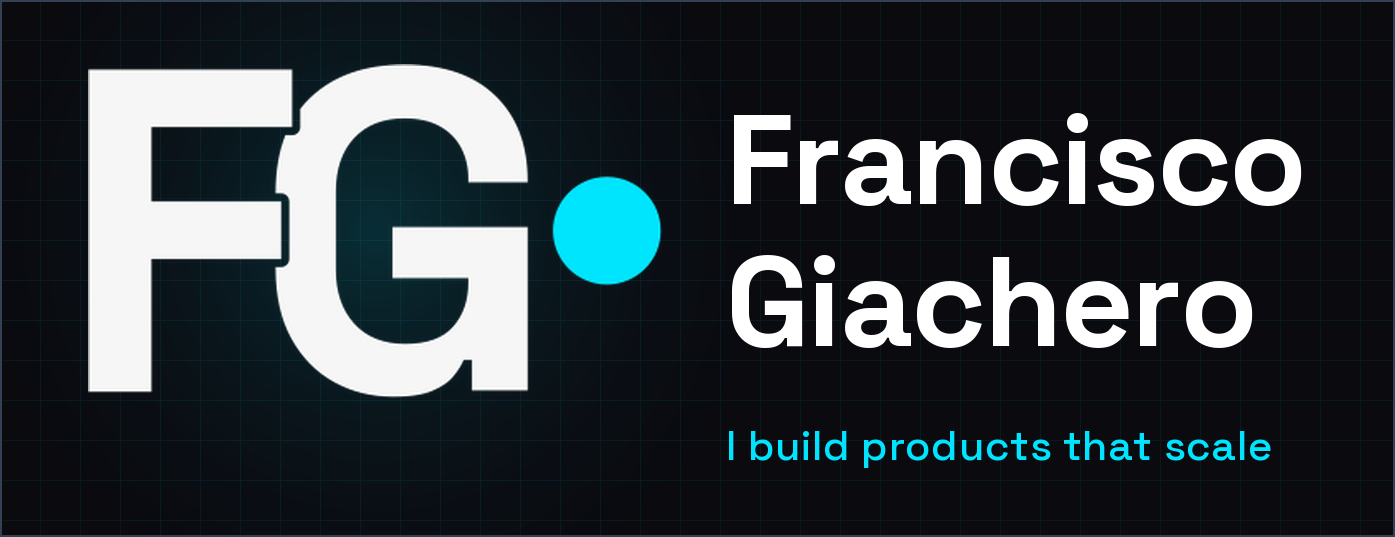
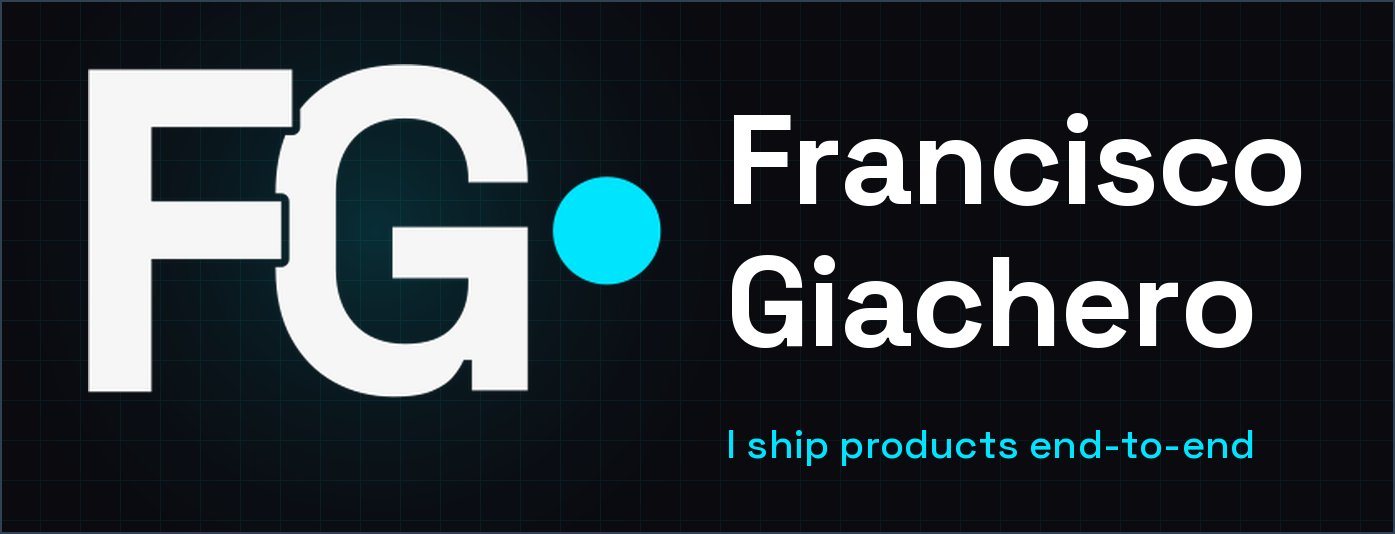
feat: Align the GitHub profile README with the LinkedIn positioning
Update the biography, roles, and header so the profile matches the Senior Software Engineer copy.

diff --git a/github-profile/README.md b/github-profile/README.md
@@ -1,26 +1,26 @@
 <!--
   Francisco Giachero | GitHub profile README
-  Dark/cyan chrome aligned with devfg.com.ar
+  Aligned with the English LinkedIn profile and devfg.com.ar
 -->
 
-<img src="./header.png" width="100%" alt="FG — Francisco Giachero. I build products that scale." />
+<img src="./header.png" width="100%" alt="FG — Francisco Giachero. I ship products end-to-end." />
 
 <div align="center">
 
 <a href="https://devfg.com.ar">
-  <img src="https://readme-typing-svg.demolab.com?font=Space+Grotesk&weight=600&size=22&duration=2800&pause=1600&color=00E5FF&center=true&vCenter=true&width=640&lines=Senior+Software+Engineer;I+build+products+that+scale;Fullstack+%C2%B7+DevOps+%C2%B7+AI;Based+in+Argentina" alt="Senior Software Engineer. I build products that scale." />
+  <img src="https://readme-typing-svg.demolab.com?font=Space+Grotesk&weight=600&size=22&duration=2800&pause=1600&color=00E5FF&center=true&vCenter=true&width=720&lines=Senior+Software+Engineer+%40+VystoAI;I+ship+AI-powered+products+end-to-end;LLMs+%C2%B7+RAG+%C2%B7+Agents+%C2%B7+n8n;Remote+with+US+teams" alt="Senior Software Engineer at VystoAI. I ship AI-powered products end-to-end." />
 </a>
 
 <br/><br/>
 
-[![Website](https://img.shields.io/badge/Website-devfg.com.ar-00E5FF?style=for-the-badge&labelColor=0A0A0F)](https://devfg.com.ar)
+[![Portfolio](https://img.shields.io/badge/Portfolio-devfg.com.ar-00E5FF?style=for-the-badge&labelColor=0A0A0F)](https://devfg.com.ar)
 [![LinkedIn](https://img.shields.io/badge/LinkedIn-Francisco_Giachero-00E5FF?style=for-the-badge&logo=linkedin&logoColor=00E5FF&labelColor=0A0A0F)](https://www.linkedin.com/in/frangiacherodeveloperweb/)
 
 <br/>
 
-*Fullstack + DevOps + AI. I help companies and startups ship real software, not demos.*
+*Senior Software Engineer at VystoAI. I ship AI-powered products end-to-end: LLMs, RAG, agents and n8n automation.*
 
-*5+ years building products end to end: interfaces, APIs, infrastructure, and AI-assisted development.*
+*Full-stack TypeScript · React/Next.js · Node.js · Python. Remote with US teams. Based in Córdoba, Argentina.*
 
 </div>
 
@@ -28,35 +28,43 @@
 const frandev = {
   name: "Francisco Giachero",
   role: "Senior Software Engineer",
-  company: "Vysto AI",
-  location: "Argentina 🇦🇷",
+  company: "VystoAI",
+  location: "Córdoba, Argentina",
   available: true,
   stack: {
+    ai: ["LLMs", "RAG", "LangChain", "n8n"],
     frontend: ["React", "Next.js", "TypeScript", "Astro"],
-    backend: ["Node.js", "Express", "FastAPI", "PostgreSQL"],
-    mobile: ["React Native", "Expo"],
-    ai: ["LangChain", "RAG", "OpenAI", "Claude"],
-    devops: ["Docker", "AWS", "Dokploy", "GitHub Actions"],
+    backend: ["Node.js", "Express", "Python", "Django"],
+    data: ["PostgreSQL", "MySQL"],
+    devops: ["AWS", "Docker", "GitHub Actions", "Linux"],
   },
-  openTo: ["freelance", "full-time", "consulting"],
+  openTo: ["Senior Software Engineer", "AI Engineer", "Full-Stack"],
 };
 ```
 
 ---
 
-## From code to product
+## About
 
-I'm **Francisco Giachero**, a software engineer with 5+ years building and evolving web applications and software systems. My experience spans frontend, backend, APIs, infrastructure, and developer tooling, so I can take a product past a single layer of the stack.
+I'm a **Senior Software Engineer** who ships products end-to-end: the interface, the API, the database, the deployment and the AI layer that ties them together. I work remotely for **VystoAI**, a US-based company, contributing across backend services, content pipelines, AI integrations and the tooling that keeps our sites healthy.
 
-I turn business requirements and problems into simple, maintainable, scalable solutions. I work with React, Next.js, TypeScript, Node.js, and Python, designing interfaces, services, and integrations, and applying principles like SOLID, testing, and sound architecture.
+I've been building for the web since 2020. I started on the frontend, and it's still one of my strongest pillars: fast, maintainable React / Next.js / TypeScript interfaces. Today I work across the whole stack. I take a problem, define it in a spec, build the complete solution, and use AI both inside the product and in the way I build it.
 
-I use AI-assisted development tools such as Claude Code and Cursor to speed up the cycle, inside structured processes like TDD and SDD. The goal is to use AI to build better and faster, without giving up quality, maintainability, or how the software evolves.
+**What I bring**
+
+- **AI in production.** LLM integrations, RAG pipelines, agents and n8n automations. I built an AI chatbot with RAG + n8n that improved answer accuracy by 85%.
+- **Full-stack delivery.** Node.js/Express and Python/Django services, REST APIs, PostgreSQL/MySQL data modeling, third-party integrations and production deployments.
+- **Frontend performance.** Cut load times by 60% through asset optimization and lazy loading, and built reusable component systems that speed up delivery.
+- **Infrastructure and operations.** 4+ years at a cloud hosting provider running production Linux/Windows servers, handling incidents and monitoring. I build software knowing how it behaves in production.
+- **AI-assisted engineering.** Cursor and Spec Driven Development (SDD) every day, plus TDD, so moving fast doesn't cost quality.
+
+Spec first, then code. I write clear specs, split the work into verifiable pieces, and use AI tools to move fast while keeping code reviewed, tested and easy to maintain. I'm comfortable owning ambiguous problems, working async with US teams in English, and moving between product, backend, frontend and infra as needed.
 
 <div align="center">
 
-![5+ years](https://img.shields.io/badge/5%2B-years_of_experience-00E5FF?style=for-the-badge&labelColor=18181F)
-![20+ projects](https://img.shields.io/badge/20%2B-projects_shipped-00E5FF?style=for-the-badge&labelColor=18181F)
-![Fullstack](https://img.shields.io/badge/Fullstack-→_infra-00E5FF?style=for-the-badge&labelColor=18181F)
+![Since 2020](https://img.shields.io/badge/2020→now-building_for_the_web-00E5FF?style=for-the-badge&labelColor=18181F)
+![Full-stack + AI](https://img.shields.io/badge/Full--stack-+_AI_in_production-00E5FF?style=for-the-badge&labelColor=18181F)
+![Remote](https://img.shields.io/badge/Remote-with_US_teams-00E5FF?style=for-the-badge&labelColor=18181F)
 
 </div>
 
@@ -64,23 +72,22 @@ I use AI-assisted development tools such as Claude Code and Cursor to speed up t
 
 ## Where I've been building
 
-<div align="center">
+Companies, clients and products that shaped how I ship.
 
 | Company | Title | When |
 |:--|:--|:--|
-| **[Vysto AI](https://vysto.ai/c/)** | Senior Software Engineer | 2026 — Present |
-| **Dewedd** | Frontend Developer | 2024 — 2026 |
-| **[Latin Cloud](https://latincloud.com/)** | L1 Operations | 2021 — 2026 |
-| **[Freelance](https://devfg.com.ar/)** | Full-Stack Developer | 2020 — Present |
-
-</div>
+| **[VystoAI](https://vysto.ai/c/)** | Senior Software Engineer<br><sub>Backend services, content pipelines, AI integration and the tooling that keeps Vysto sites healthy. Remote · Texas, United States.</sub> | May 2026 – Present |
+| **Self-employed** | Freelance Full-Stack Developer<br><sub>End-to-end client apps: requirements, UX/UI, backend, database and production deployment.</sub> | 2020 – Present |
+| **Dewedd** | Frontend Developer<br><sub>Scalable React / Next.js / TypeScript interfaces, reusable components and frontend infrastructure.</sub> | Jun 2024 – Jul 2026 |
+| **[LatinCloud](https://latincloud.com/)** | Infrastructure Operations Engineer, Tier 1 (Operaciones N1)<br><sub>Kept production services at 99.9% uptime through proactive monitoring of Linux and Windows servers (Grafana).</sub> | Feb 2023 – Feb 2026 |
+| **[LatinCloud](https://latincloud.com/)** | Web Technologies & Cloud Hosting Support<br><sub>Customer technical support for hosting panels, email and WordPress sites.</sub> | Oct 2021 – Feb 2023 |
 
 ---
 
 ## What I've built
 
 <div align="center">
-<sub>Real products, with real users. More on <a href="https://devfg.com.ar/#projects">devfg.com.ar</a>.</sub>
+<sub>Real products, real users — and AI in production. More on <a href="https://devfg.com.ar/#projects">devfg.com.ar</a>.</sub>
 </div>
 
 <br/>
@@ -89,68 +96,67 @@ I use AI-assisted development tools such as Claude Code and Cursor to speed up t
 <tr>
 <td width="50%" valign="top">
 
+### RAG + n8n AI chatbot
+![Featured](https://img.shields.io/badge/-Featured-00E5FF?style=flat-square&labelColor=0A0A0F) &nbsp;
+<kbd>AI</kbd> &nbsp; <kbd>RAG</kbd>
+
+AI chatbot with RAG retrieval and n8n automation, wired into real workflows.
+
+`LLMs` `RAG` `n8n` `OpenAI` `LangChain`
+
+</td>
+<td width="50%" valign="top">
+
 ### Carssnet
 ![Product](https://img.shields.io/badge/-Product-00E5FF?style=flat-square&labelColor=0A0A0F) &nbsp;
 <kbd>SaaS</kbd> &nbsp; <kbd>PWA</kbd>
 
-A platform that brings services, quotes, and cash flow into one place for auto repair shops.
+Web platform that centralizes services, quotes and cash flow for auto repair shops.
 
-`React` `Node` `PostgreSQL` `DaisyUI`
+`React` `Node.js` `PostgreSQL` `DaisyUI`
 
 </td>
+</tr>
+<tr>
 <td width="50%" valign="top">
 
 ### Finance Tracking
 ![Live](https://img.shields.io/badge/-Live-00E5FF?style=flat-square&labelColor=0A0A0F) &nbsp;
 <kbd>Fintech</kbd> &nbsp; <kbd>Dashboards</kbd>
 
-Personal finance app for income, expenses, and yearly metrics.
+Personal finance app with income and expense tracking and yearly dashboard metrics.
 
 [Live](https://financetraking.proyectolandia.com.ar)
 
 `React` `Node.js` `MySQL` `Docker`
 
 </td>
-</tr>
-<tr>
 <td width="50%" valign="top">
-
 
 ### Punto Frio
 ![Live](https://img.shields.io/badge/-Live-00E5FF?style=flat-square&labelColor=0A0A0F) &nbsp;
 <kbd>Catalog</kbd> &nbsp; <kbd>Next.js</kbd>
 
-Digital catalog for a frozen-food business, built so customers can browse quickly.
+Digital product catalog for a frozen foods business, built to make browsing easier.
 
 [Live](https://puntofrio.com.ar/)
 
-`Next.js` `Tailwind` `API REST`
+`Next.js` `Tailwind CSS` `REST API`
 
 </td>
+</tr>
+<tr>
 <td width="50%" valign="top">
 
 ### Herrería SG
 ![Live](https://img.shields.io/badge/-Live-00E5FF?style=flat-square&labelColor=0A0A0F) &nbsp;
 <kbd>Landing</kbd> &nbsp; <kbd>Corporate</kbd>
 
-Company landing page with a gallery of finished work and a direct contact path.
+Corporate landing for a blacksmithing business, with a work gallery and direct contact.
 
 [Live](https://herreriasglbye.com.ar/) · [Repo](https://github.com/Frangia22/HerreriaSGlbye.github.io)
 
 `HTML` `CSS` `JavaScript`
-
-</td>
-</tr>
-<tr>
-<td width="50%" valign="top">
-
-### Laimpresioneta3d
-![Product](https://img.shields.io/badge/-Product-00E5FF?style=flat-square&labelColor=0A0A0F) &nbsp;
-<kbd>Catalog</kbd> &nbsp; <kbd>Maker</kbd>
-
-Site for showing 3D printing and laser engraving work, plus custom services.
-
-`Node` `Express` `Docker` `MySQL`
 
 </td>
 <td width="50%" valign="top">
@@ -159,7 +165,7 @@ Site for showing 3D printing and laser engraving work, plus custom services.
 ![Repo](https://img.shields.io/badge/-Repo-00E5FF?style=flat-square&labelColor=0A0A0F) &nbsp;
 <kbd>Ops</kbd> &nbsp; <kbd>Django</kbd>
 
-Booking and income/expense tracking for a sports complex.
+Management system for a sports complex: bookings and income/expense control.
 
 [Repo](https://github.com/Frangia22/Web-Luz-y-Fuerza)
 
@@ -168,6 +174,8 @@ Booking and income/expense tracking for a sports complex.
 </td>
 </tr>
 </table>
+
+Laimpresioneta3d is on the portfolio too: a site for 3D printing and laser engraving work. `Node.js` `Express` `Docker` `MySQL`
 
 ---
 
@@ -178,76 +186,47 @@ Booking and income/expense tracking for a sports complex.
 
 <br/><br/>
 
-<img src="https://skillicons.dev/icons?i=react,nextjs,astro,ts,js,html,css,tailwind,nodejs,express,py,postgres,docker,aws,githubactions,figma,linux,wordpress&theme=dark" alt="Stack" />
+<img src="https://skillicons.dev/icons?i=react,nextjs,astro,ts,js,tailwind,nodejs,express,py,django,postgres,mysql,docker,aws,githubactions,linux,nginx,grafana&theme=dark" alt="Stack" />
 
-</div>
-
----
-
-## How I can help
-
-<div align="center">
-<sub>I work with companies and startups that need more than code.</sub>
 </div>
 
 <br/>
 
-<table>
-<tr>
-<td width="50%" valign="top">
+**AI** · LLMs (OpenAI), RAG, LangChain, AI agents, n8n
 
-### 🌐 Custom web development
-<kbd>React</kbd> &nbsp; <kbd>Next.js</kbd> &nbsp; <kbd>Astro</kbd>
+**Backend** · Node.js, Express, Python, Django, REST APIs
 
-Sites and apps built to fit. From landing pages to full SaaS platforms.
+**Frontend** · React, Next.js, Astro, TypeScript, JavaScript, Tailwind CSS
 
-</td>
-<td width="50%" valign="top">
+**Data** · PostgreSQL, MySQL
 
-### ⚙ Backend & APIs
-<kbd>Node.js</kbd> &nbsp; <kbd>Express</kbd> &nbsp; <kbd>PostgreSQL</kbd>
+**Cloud & DevOps** · AWS (EC2, S3, RDS), Docker, GitHub Actions, Nginx, Linux, Grafana
 
-REST APIs, authentication, data, and scalability.
-
-</td>
-</tr>
-<tr>
-<td width="50%" valign="top">
-
-### ☁ DevOps & deploy
-<kbd>AWS</kbd> &nbsp; <kbd>Docker</kbd> &nbsp; <kbd>CI/CD</kbd>
-
-Infrastructure, monitoring, GitHub Actions, and reliable deploys.
-
-</td>
-<td width="50%" valign="top">
-
-### 🔍 Technical consulting
-<kbd>Architecture</kbd> &nbsp; <kbd>Code Review</kbd> &nbsp; <kbd>Performance</kbd>
-
-Stack choices, reviews, and technical decisions.
-
-</td>
-</tr>
-</table>
-
-<div align="center">
-
-[Not sure which one you need? Let's talk →](https://devfg.com.ar/#contact)
-
-</div>
+**Practices** · SDD, TDD, DDD, AI-assisted development (Cursor)
 
 ---
 
-## Have a project in mind?
+## Education
+
+- **UTN FRBA (e-Learning)** — Professional Webmaster · Mar 2021 – Sep 2021
+- **Polotic Misiones** — Junior Full-Stack Web Developer (PHP) · 2020
+- **IPET y M N°257, Laboulaye** — Electronics Technician · 2014 – 2020
+
+Certifications: Junior Full Stack Developer · Programming Essentials in Python
+
+---
+
+## Open to
+
+Remote **Senior Software Engineer**, **AI Engineer** and **Full-Stack** roles. Also freelance projects.
 
 <div align="center">
 
-I reply within 24 hours. No endless forms — just tell me what you need.
+I reply within 24 hours.
 
 <br/>
 
-[![Get in touch](https://img.shields.io/badge/Get_in_touch-00E5FF?style=for-the-badge&labelColor=0A0A0F&color=00E5FF)](https://devfg.com.ar/#contact)
+[![Portfolio](https://img.shields.io/badge/Portfolio-00E5FF?style=for-the-badge&labelColor=0A0A0F&color=00E5FF)](https://devfg.com.ar/#contact)
 [![LinkedIn](https://img.shields.io/badge/LinkedIn-0A0A0F?style=for-the-badge&logo=linkedin&logoColor=00E5FF&labelColor=18181F)](https://www.linkedin.com/in/frangiacherodeveloperweb/)
 
 <br/>
